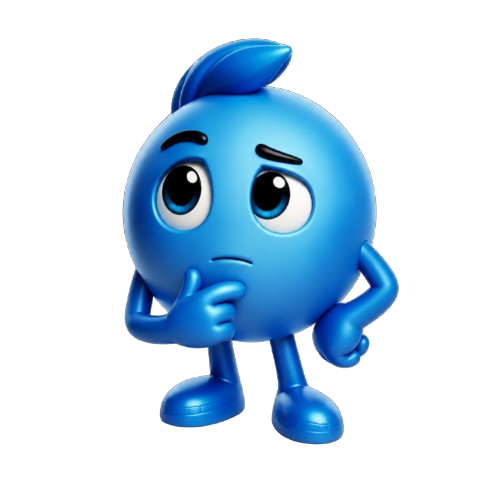
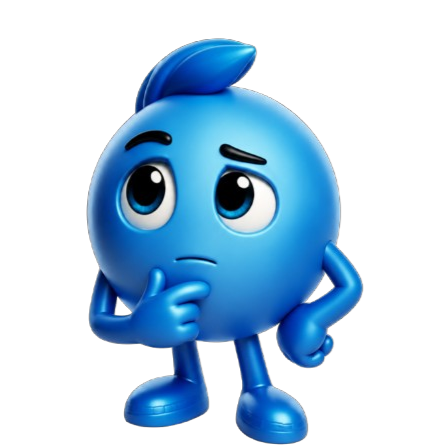
Melhorias e correções na página de Progresso

diff --git a/src/app/pages/metas/index.tsx b/src/app/pages/metas/index.tsx
@@ -1,14 +1,17 @@
 import { StyleSheet, Text, View } from "react-native";
-import { META_DIARIA, META_MENSAL, META_SEMANAL } from "../ranking";
 import {
-  AntDesign,
-  FontAwesome,
-  MaterialCommunityIcons,
-} from "@expo/vector-icons";
+  META_DIARIA,
+  META_MENSAL,
+  META_SEMANAL,
+  TOTAL_VENDIDO,
+} from "../ranking";
+import { AntDesign, MaterialCommunityIcons } from "@expo/vector-icons";
 import ProgressBar from "@/_components/ProgressBar";
 
 const ICON_SIZE: number = 60;
 const ICON_COLOR: string = "green";
+const KG_VENDIDO_SEMANA: number = 28290.63;
+const KG_VENDIDO_DIA: number = 4740.0;
 
 export default function Metas() {
   const styles = StyleSheet.create({
@@ -48,11 +51,22 @@ export default function Metas() {
     progressBarContainer: {
       flex: 4,
       justifyContent: "center",
+      marginTop: 20,
     },
+    progressBarSubtitle: {
+      flexDirection: "row",
+      justifyContent: "space-between",
+    },
+    progressBarSubtitleText: {
+      fontSize: 18,
+      fontWeight: "bold",
+    },
+    totalVendidoContainer: { alignItems: "center" },
   });
 
   return (
     <View style={styles.mainContainer}>
+      {/* META MENSAL */}
       <View style={styles.metaContainer}>
         <MaterialCommunityIcons
           name="target"
@@ -66,10 +80,21 @@ export default function Metas() {
         </View>
 
         <View style={styles.progressBarContainer}>
-          <ProgressBar meta={META_MENSAL} realizado={99687.5} />
+          <ProgressBar meta={META_MENSAL} realizado={TOTAL_VENDIDO} />
+          <View style={styles.progressBarSubtitle}>
+            <Text style={styles.progressBarSubtitleText}>0 Kg</Text>
+            <View style={styles.totalVendidoContainer}>
+              <Text style={styles.progressBarSubtitleText}>
+                {TOTAL_VENDIDO.toFixed(1)} Kg
+              </Text>
+              <Text style={styles.progressBarSubtitleText}>Total Vendido</Text>
+            </View>
+            <Text style={styles.progressBarSubtitleText}>{META_MENSAL} Kg</Text>
+          </View>
         </View>
       </View>
 
+      {/* META SEMANAL */}
       <View style={styles.metaContainer}>
         <MaterialCommunityIcons
           name="calendar-blank-outline"
@@ -82,10 +107,23 @@ export default function Metas() {
           <Text style={styles.metaTitleText}>{META_SEMANAL} Kg</Text>
         </View>
         <View style={styles.progressBarContainer}>
-          <ProgressBar meta={META_SEMANAL} realizado={26290.63} />
+          <ProgressBar meta={META_SEMANAL} realizado={KG_VENDIDO_SEMANA} />
+          <View style={styles.progressBarSubtitle}>
+            <Text style={styles.progressBarSubtitleText}>0 Kg</Text>
+            <View style={styles.totalVendidoContainer}>
+              <Text style={styles.progressBarSubtitleText}>
+                {KG_VENDIDO_SEMANA.toFixed(1)} Kg
+              </Text>
+              <Text style={styles.progressBarSubtitleText}>Total Vendido</Text>
+            </View>
+            <Text style={styles.progressBarSubtitleText}>
+              {META_SEMANAL} Kg
+            </Text>
+          </View>
         </View>
       </View>
 
+      {/* META DIARIA */}
       <View style={styles.metaContainer}>
         <AntDesign
           name="clock-circle"
@@ -95,11 +133,21 @@ export default function Metas() {
         />
         <View style={styles.metaTitle}>
           <Text style={styles.metaTitleText}>META DIÁRIA: </Text>
-          <Text style={styles.metaTitleText}>7250 Kg</Text>
+          <Text style={styles.metaTitleText}>{META_DIARIA} Kg</Text>
         </View>
 
         <View style={styles.progressBarContainer}>
-          <ProgressBar meta={META_DIARIA} realizado={4740} />
+          <ProgressBar meta={META_DIARIA} realizado={KG_VENDIDO_DIA} />
+          <View style={styles.progressBarSubtitle}>
+            <Text style={styles.progressBarSubtitleText}>0 Kg</Text>
+            <View style={styles.totalVendidoContainer}>
+              <Text style={styles.progressBarSubtitleText}>
+                {KG_VENDIDO_DIA.toFixed(1)} Kg
+              </Text>
+              <Text style={styles.progressBarSubtitleText}>Total Vendido</Text>
+            </View>
+            <Text style={styles.progressBarSubtitleText}>{META_DIARIA} Kg</Text>
+          </View>
         </View>
       </View>
     </View>

diff --git a/src/app/pages/progresso/index.tsx b/src/app/pages/progresso/index.tsx
@@ -1,8 +1,28 @@
 import ProgressBar from "@/_components/ProgressBar";
 import { StyleSheet, Text, View, Image } from "react-native";
-import { META_MENSAL, vendedores } from "../ranking";
+import { META_MENSAL, TOTAL_VENDIDO } from "../ranking";
 
 const IMAGE_SIZE: number = 200;
+
+const progresso = TOTAL_VENDIDO / META_MENSAL;
+
+const getImageStyle = (indice: number) => {
+  let ativo = false;
+
+  if (progresso >= 1) {
+    ativo = indice === 2;
+  } else if (progresso >= 0.5) {
+    ativo = indice === 1;
+  } else {
+    ativo = indice === 0;
+  }
+
+  return {
+    width: ativo ? 240 : 180,
+    height: ativo ? 240 : 180,
+    resizeMode: "contain" as const,
+  };
+};
 
 export default function Progresso() {
   const styles = StyleSheet.create({
@@ -13,7 +33,7 @@ export default function Progresso() {
       alignItems: "center",
       padding: 20,
       gap: 24,
-      marginBottom: 120
+      marginBottom: 120,
     },
     frasePrincipal: {
       fontSize: 40,
@@ -49,23 +69,31 @@ export default function Progresso() {
           style={{
             flexDirection: "row",
             width: "100%",
-            justifyContent: "space-between",
+            alignItems: "flex-end",
           }}
         >
-          <Image
-            source={require("@/assets/Mascote_Triste.png")}
-            style={{ width: IMAGE_SIZE, height: IMAGE_SIZE }}
-          />
-          <Image
-            source={require("@/assets/Mascote_Pensativo.png")}
-            style={{ width: IMAGE_SIZE, height: IMAGE_SIZE }}
-          />
-          <Image
-            source={require("@/assets/Mascote_Feliz.png")}
-            style={{ width: IMAGE_SIZE, height: IMAGE_SIZE }}
-          />
+          <View style={{ flex: 1, alignItems: "center" }}>
+            <Image
+              source={require("@/assets/Mascote_Triste.png")}
+              style={getImageStyle(0)}
+            />
+          </View>
+
+          <View style={{ flex: 1, alignItems: "center" }}>
+            <Image
+              source={require("@/assets/Mascote_Pensativo.png")}
+              style={getImageStyle(1)}
+            />
+          </View>
+
+          <View style={{ flex: 1, alignItems: "center" }}>
+            <Image
+              source={require("@/assets/Mascote_Feliz.png")}
+              style={getImageStyle(2)}
+            />
+          </View>
         </View>
-        <ProgressBar meta={META_MENSAL} realizado={85700} />
+        <ProgressBar meta={META_MENSAL} realizado={TOTAL_VENDIDO} />
         <View
           style={{
             flexDirection: "row",

diff --git a/src/_components/ProgressBar.tsx b/src/_components/ProgressBar.tsx
@@ -29,10 +29,10 @@ export default function ProgressBar({
             width: `${porcentagem}%`,
           },
         ]}
-      />
-
-      <View style={styles.labelContainer}>
-        <Text style={styles.label}>{porcentagem.toFixed(1)}%</Text>
+      >
+        <View style={styles.labelContainer}>
+          <Text style={styles.label}>{porcentagem.toFixed(1)}%</Text>
+        </View>
       </View>
     </View>
   );
@@ -58,7 +58,8 @@ const styles = StyleSheet.create({
   labelContainer: {
     ...StyleSheet.absoluteFill,
     justifyContent: "center",
-    alignItems: "center",
+    alignItems: "flex-end",
+    paddingRight: 12,
   },
 
   label: {

diff --git a/src/_components/Topbar.tsx b/src/_components/Topbar.tsx
@@ -2,7 +2,8 @@ import { router, usePathname } from "expo-router";
 import { View, Text, TouchableOpacity, Pressable } from "react-native";
 
 const pages = [
-  { path: "/", label: "Ranking" },
+  { path: "/", label: "Home" },
+  { path: "/pages/ranking", label: "Ranking" },
   { path: "/pages/pedidos", label: "Pedidos" },
   { path: "/pages/vendedores", label: "Vendedores" },
   { path: "/pages/metas", label: "Metas" },